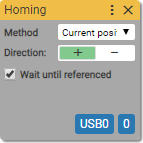
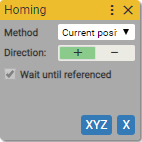
make getting started category; update motion blocks

diff --git a/docs/imac_editor.md b/docs/imac_editor.md
@@ -1,24 +1,72 @@
 ---
-id: get_started
-title: Getting Started
-sidebar_label: Getting Started
+id: imac_editor
+title: IMAC Editor
+sidebar_label: IMAC Editor
 ---
 
 To start **IMAC Editor**, open web browser (Google Chrome is recommended for **IMAC**) and type `imac:5000` in the browser address bar.
 
-IMAC Editor contains four areas:
+IMAC Editor contains five areas:
 
 1. Main Menu
 2. Block palette
 3. Visual Programming Workspace
 4. Device control panel
-4. Terminal
+5. Terminal
 
 <figure>
   <img src="assets/editor_2.png" alt="Visual Block Programming Environment"/>
 </figure>
 
 ## Main menu
+
+Main menu contains File drop-down menu and drop-down menus for each device connected to IMAC.
+
+### File
+
+IMAC editor has two options available for opening and saving IMAC programs:
+
+<figure style="margin-bottom: 20px">
+  <img src="assets/editor_file_menu_1.png" alt="File drop-down menu"/>
+</figure>
+
+__1. Using IMAC’s file system__
+
+Click on `Open from IMAC` and the following dialog box appears. Select file and click `Open` button. Blocks saved in that file will be loaded into visual programming workspace.
+
+<figure>
+  <img src="assets/open_from_imac.png" alt="Open from IMAC"/>
+</figure>
+
+Click on `Save to IMAC`, give a file a name, click `Save` button and blocks that are displayed on the visual programming workspace will be stored in the file.
+
+<figure>
+  <img src="assets/save_to_imac.png" alt="Save to IMAC"/>
+</figure>
+
+Organize your files by creating folders. Click _Create folder_ icon and additional form will appear.
+
+<figure style="margin-bottom: 20px">
+  <img src="assets/create_folder.png" alt="Create folder"/>
+</figure>
+
+__2. Using User's PC file system or local network shared resource__
+
+Click on `Open from PC` and the standard Windows File Explorer dialog box appears. Select file and click `Open` button. Blocks saved in that file will be loaded into visual programming workspace.
+
+<figure>
+  <img src="assets/open_from_pc.png" alt="Open from PC"/>
+</figure>
+
+Click on `Save to PC`. Give a file a name, click `Save` button and blocks that are displayed on the visual programming workspace will be stored in the file.
+
+<figure>
+  <img src="assets/save_to_pc.png" alt="Save to PC"/>
+</figure>
+
+### Devices
+
+Coming soon
 
 ## Block Palette
 
@@ -37,7 +85,7 @@ Block palette contains the following command block categories:
 
 #### Mode
 
-Allows to set type of the motor and the mode in which motor works.
+Sets the type of the motor and the mode in which motor works.
 
 <figure>
   <img src="assets/blocks/mode_1.png" alt="Mode tile"/>
@@ -51,11 +99,11 @@ Allows to set type of the motor and the mode in which motor works.
 *Operating mode*:
 + Position
 
-Sets the motor ***type*** to *`Stepper`* and operating ***mode*** to *`Position`* for axis `0` on the port `USB0`.
+Shown block sets the motor ***type*** to *`Stepper`* and operating ***mode*** to *`Position`* for axis `X` on the port name `XYZ`.
 
 #### Profile
 
-Allows to set the motion characteristics.
+Sets motion characteristics.
 
 <figure>
   <img src="assets/blocks/profile_1.png" alt="Profile tile"/>
@@ -75,16 +123,17 @@ Allows to set the motion characteristics.
 
 *Jerk*: positive integer [*counts/sec^3*]
 
-Sets the motion ***profile***, ***velocity***, ***acceleration***, ***deaceleration*** and ***jerk*** for axis `0` on the port `USB0`.
+Sets the motion ***profile***, ***velocity***, ***acceleration***, ***deaceleration*** and ***jerk*** for axis `X` on the port name `XYZ`.
 
 #### Move
 
-Allows to set the type of motion, absolute position or relative distance, direction of the motion. By default the checkbox `Wait until done` is checked and that means that next block in the sequence will not be executed until the motion is completed.
+Sets the type of motion, absolute position or relative distance, direction of the motion. By default the checkbox `Wait until done` is checked and that means that next block in the sequence will not be executed until the motion is completed.
 
 <figure>
   <img src="assets/blocks/move_1.png" alt="Move tile"/>
   <img src="assets/blocks/move_2.png" alt="Move block"/>
   <img src="assets/blocks/move_3.png" alt="Move block"/>
+  <img src="assets/blocks/move_4.png" alt="Move block"/>
 </figure>
 
 *Type*:
@@ -96,6 +145,10 @@ Allows to set the type of motion, absolute position or relative distance, direct
 
   Uses when you need to move the axis relative to current position.
 
++ Velocity
+
+  Uses when you need to move the axis at a constant velocity in the selected direction.
+
 *Position*: positive or negative integer [*counts*]
 
 *Distance*: positive or negative integer [*counts*]
@@ -106,36 +159,43 @@ Multiplies the value of ***position*** or ***distance*** by `1` if Positive, and
 
 *Wait until done*: [*True / False*]
 
-Sets motion ***type*** to *`Absolute`* or *`Relative`*, ***position*** to absolute position in counts, ***direction*** to positive or negative, ***distance*** to relative position in counts, ***wait until done*** to *`True`* or *`False`* for axis `0` on the port `USB0`.
+Sets motion ***type*** to *`Absolute`* or *`Relative`* or *`Velocity`*, ***position*** to absolute position in counts, ***direction*** to positive or negative, ***distance*** to relative position in counts, ***wait until done*** to *`True`* or *`False`* for axis `X` on the port name `XYZ`.
 
 #### Homing
 
-Allows to set the homing position.
+Sets the homing position.
 
 <figure>
   <img src="assets/blocks/homing_1.png" alt="Homing tile"/>
   <img src="assets/blocks/homing_2.png" alt="Homing block"/>
   <img src="assets/blocks/homing_3.png" alt="Homing block"/>
+  <img src="assets/blocks/homing_4.png" alt="Homing block"/>
 </figure>
 
 *Method*:
 + Current position
 
-  Used when the currect position is needed to be set as homing position.
+  Use when the currect position is needed to be set as homing position.
 
 + Limit switch
 
-  Used when one of limits is needed to be set as homing position.
+  Use when one of limits is needed to be set as homing position.
+
++ Home switch
+
+  Use when home switch is needed to be set as homing position.
 
 *Direction*: [*Positive / Negative*]
 
-Works only with *`Limit switch`* method. Indicates that ***positive*** or ***negative*** limit switch is selected to be a homing position.
+Works only with *`Limit switch`* and *`Home switch`* methods.
+If Limit switch method is elected, indicates that ***positive*** or ***negative*** limit switch is selected to be a homing position.
+If Home switch is selected, indicates the direction the axis should move in to get to the home switch.
 
-*Wait until referenced*: [*True / False*]
+*Wait until referenced*: [*Always true*]
 
 Waits for axis completes the homing positioning.
 
-Sets homing ***method*** to *`Current position`* or *`Limit Switch`*, ***direction*** to positive or negative, ***wait until referenced*** to *`True`* or *`False`* for axis `0` on the port `USB0`.
+Sets homing ***method*** to *`Current position`* or *`Limit Switch`* or *`Home Switch`*, ***direction*** to positive or negative, ***wait until referenced*** to *`True`* for axis `X` on the port `XYZ`.
 
 ### Time / Event Blocks
 
@@ -439,30 +499,6 @@ To fold the user block back click `Fold`.
 </figure>
 
 To learn more about User blocks please see [The User Block Guide](guideUserblock.md).
-
-## Working with IMAC files
-
-There are two options available to save IMAC program:
-
-1.	Save program to IMAC’s file system.
-
-Go to _Main Menu_ => _File_ and click _Save to IMAC_. Save file dialog will open.
-
-![Save to IMAC](assets/save_to_imac.png "Save to IMAC")
-
-Organize your files by creating folders. Click _Create folder_ icon and additional form will appear.
-
-![Save to IMAC](assets/create_folder.png "Save to IMAC")
-
-Enter the name of file and click Save.
-
-2.	Save program to your PC file system or some local network shared resource.
-
-Go to _Main Menu_ => _File_ and click _Save to PC_. This is standard Windows File Explorer dialog box.
-
-![Save to IMAC](assets/save_to_pc.png "Save to IMAC")
-
-To open saved IMAC programs go to IMAC _Main Menu_ => _File_ and choose _Open from PC_ or _Open from IMAC_. The same dialog boxes will be opened, just select desired file and click Open. The blocks saved in the opened file will be displayed on the visual programming workspace. Modify the blocks, add new ones or just run them.
 
 ## Updating IMAC Software
 
